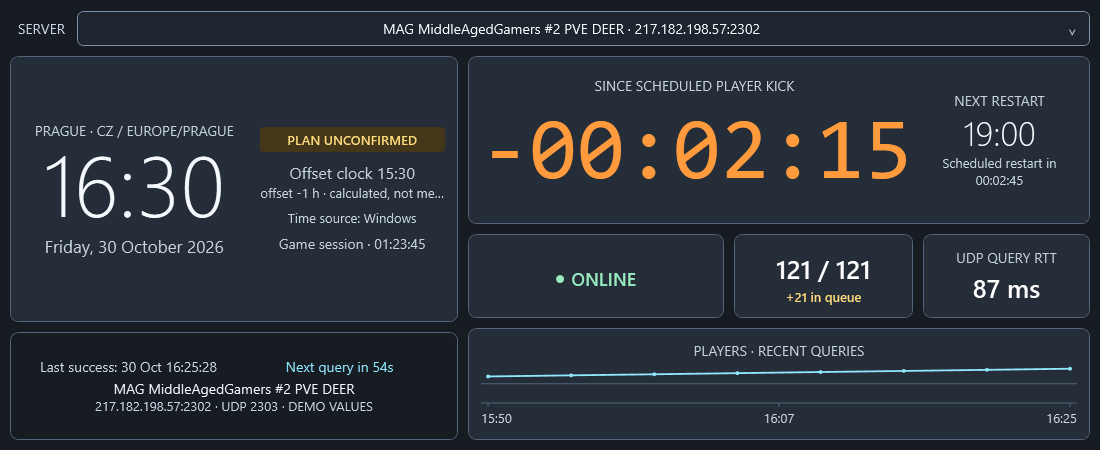
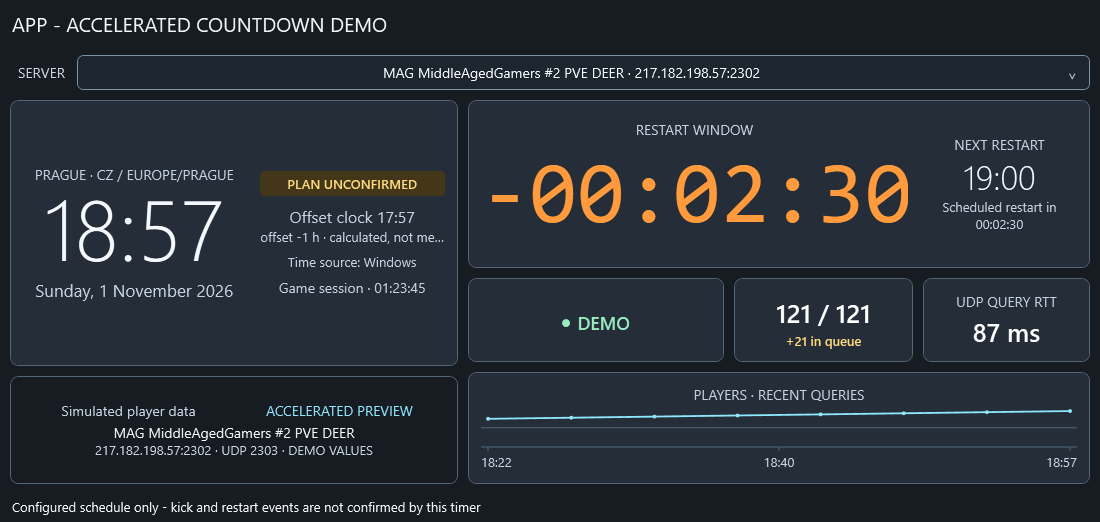
Label the planned kick-to-restart interval as restart window

diff --git a/src/MagDeer.Core/L.cs b/src/MagDeer.Core/L.cs
@@ -40,7 +40,7 @@ public static class L
     public static readonly IReadOnlyDictionary<string, string[]> Texts = new Dictionary<string, string[]>
     {
         ["CountdownKick"] = ["UNTIL EXPECTED PLAYER KICK", "DO OČEKÁVANÉHO KICKU", "DO PRZEWIDYWANEGO WYRZUCENIA", "BIS ZUM ERWARTETEN KICK", "HASTA LA EXPULSIÓN PREVISTA"],
-        ["CountdownSinceKick"] = ["SINCE SCHEDULED PLAYER KICK", "OD PLÁNOVANÉHO KICKU", "OD PLANOWANEGO WYRZUCENIA", "SEIT GEPLANTEM KICK", "DESDE LA EXPULSIÓN PREVISTA"],
+        ["CountdownSinceKick"] = ["RESTART WINDOW", "RESTARTOVACÍ OKNO", "OKNO RESTARTU", "NEUSTARTFENSTER", "VENTANA DE REINICIO"],
         ["ScheduledRestartIn"] = ["Scheduled restart in {0}", "Plánovaný restart za {0}", "Planowany restart za {0}", "Geplanter Neustart in {0}", "Reinicio previsto en {0}"],
         ["KickUnknown"] = ["Player kick time: unknown", "Čas kicku hráčů: neznámý", "Czas wyrzucenia: nieznany", "Kick-Zeit: unbekannt", "Hora de expulsión: desconocida"],
         ["KickKnownOption"] = ["This server kicks players before restarting", "Tento server vykopne hráče před restartem", "Ten serwer wyrzuca graczy przed restartem", "Dieser Server kickt Spieler vor dem Neustart", "Este servidor expulsa jugadores antes del reinicio"],

diff --git a/docs/STREAM-DECK.md b/docs/STREAM-DECK.md
@@ -8,7 +8,7 @@ The plugin uses Elgato's SDK and renders for 72 x 72-pixel MK.2 keys. It needs W
 
 1. Unpack the Windows ZIP. Keep `config.json` and `data` when upgrading.
 2. Start `DayzServerMonitor.exe` and select a server. It can stay minimized.
-3. Install `Dayz-Server-Monitor-1.11.1.streamDeckPlugin`, included in the ZIP and ReleasePackages folder.
+3. Install `Dayz-Server-Monitor-1.11.2.streamDeckPlugin`, included in the ZIP and ReleasePackages folder.
 4. Drag Cycle server information or Pinned server information from the Dayz Server Monitor action list onto a key.
 
 Direct installation needs no Marketplace account or extra driver. Run both apps under the same Windows account, without elevation. The plugin does not launch the monitor. A custom key image/title can cover its generated display.
@@ -44,7 +44,7 @@ Restart digits turn yellow at 15 minutes and orange at 10 minutes. During the la
 
 The key follows the chosen countdown target for its server. Known player kick can be a separate target without changing the real restart plan. The MAG DEER endpoint has a user-reported 5-minute kick lead. Other community servers remain unknown until configured. Logout reminders stay anchored to the real restart time.
 
-After the planned kick time, the kick countdown becomes negative (for example -00:01 through -04:59 for a five-minute lead). It stays orange without pulsing and is labeled SINCE PLAN KICK; the footer shows the remaining scheduled restart countdown. At the scheduled restart, it moves to the next planned kick instead of waiting at NOW for a query reply. These labels describe the configured schedule, not observed kick events.
+After the planned kick time, the kick countdown becomes negative (for example -00:01 through -04:59 for a five-minute lead). It stays orange without pulsing and is labeled RESTART WINDOW; the footer shows Scheduled restart in with the remaining time. At the scheduled restart, it moves to the next planned kick instead of waiting at NOW for a query reply. These labels describe the configured schedule, not observed kick events.
 
 A missing multiplier leaves the published time without extrapolation. A missing game clock gives N/A. The desktop offset clock is calculated separately. [Bohemia server configuration](https://community.bohemia.net/wiki/DayZ:Server_Configuration).
 

diff --git a/README.md b/README.md
@@ -34,7 +34,7 @@ Set your restart plan in Settings -> Restarts & alerts. The example is 03:00, 07
 
 Player kick is separate from restart. MAG DEER has a user-reported 5-minute kick lead; other servers stay unknown until configured. You can count down to a known kick without moving the actual restart plan. Digits turn yellow at 15 minutes, orange at 10 minutes and gradually red over the last 5 minutes. Only the digits gently pulse in the last 30 seconds.
 
-When counting down to a known kick, passing the planned kick time shows negative elapsed time in steady orange until the scheduled restart. The desktop labels it SINCE SCHEDULED PLAYER KICK and shows the remaining time to restart; the Stream Deck key shows SINCE PLAN KICK with a RESTART timer below. At the scheduled restart, both start counting down to the next planned kick, including when queries are unavailable. This is schedule-based, not confirmation of an actual kick or restart. Visual alerts can be disabled in settings.
+When counting down to a known kick, passing the planned kick time shows negative elapsed time in steady orange until the scheduled restart. The desktop labels it RESTART WINDOW and shows the remaining time to restart; the Stream Deck key shows RESTART WINDOW with a Scheduled restart in timer below. At the scheduled restart, both start counting down to the next planned kick, including when queries are unavailable. This is schedule-based, not confirmation of an actual kick or restart. Visual alerts can be disabled in settings.
 
 Settings -> Appearance contains ten themes, backgrounds and the language selector. Theme/background selection previews immediately; Cancel restores the previous appearance. English is the default; Czech, Polish, German and Spanish are included. Profiles can be edited or deleted under Servers. One Save settings applies the dialog's changes. See the [settings guide](docs/SETTINGS.md) and [palette gallery](docs/GALLERY.md).
 

diff --git a/README.cs.md b/README.cs.md
@@ -36,7 +36,7 @@ Plán restartů je v sekci Restarty a upozornění. Výchozí příklad je 03:00
 
 Kick je oddělený od restartu a nastavený pro konkrétní server. U MAG DEER počítáme s uživatelem hlášeným kickem 5 minut před restartem. U ostatních serverů je čas neznámý, dokud ho nenastavíš. Odpočet lze přepnout na známý kick bez posunutí restartu. V 15 minutách číslice zežloutnou, v 10 minutách jsou oranžové a posledních 5 minut přecházejí do červené. Posledních 30 sekund jemně pulzují jen číslice.
 
-Po plánovaném kicku se při odpočtu do kicku zobrazí záporný čas oranžově bez blikání. Popisek upřesní, že jde o dobu od plánovaného kicku, a pod ním zůstane čas do plánovaného restartu. V okamžiku restartu se aplikace i Stream Deck přepnou na odpočet k dalšímu kicku, i když server neodpovídá. Jde o časy podle nastaveného rozvrhu, nikoli o potvrzení skutečného kicku nebo restartu. Barevná upozornění lze vypnout v nastavení.
+Po plánovaném kicku se při odpočtu do kicku zobrazí záporný čas oranžově bez blikání. Popisek „RESTARTOVACÍ OKNO“ označí dobu mezi plánovaným kickem a restartem. Pod ním zůstane čas do plánovaného restartu. V okamžiku restartu se aplikace i Stream Deck přepnou na odpočet k dalšímu kicku, i když server neodpovídá. Jde o časy podle nastaveného rozvrhu, nikoli o potvrzení skutečného kicku nebo restartu. Barevná upozornění lze vypnout v nastavení.
 
 Motivy a pozadí se při výběru hned zobrazí jako náhled; Zrušit vrátí původní vzhled. Dvojklik mimo ovládací prvky skryje horní lištu. Widget přesuneš tažením za zobrazovací plochu; F10 nebo Esc lištu vrátí. Pravé tlačítko otevře nabídku.
 

diff --git a/docs/GALLERY.md b/docs/GALLERY.md
@@ -100,7 +100,7 @@ Normal, 15 minutes, 10 minutes, 5 minutes, 2:45 and 30 seconds. The last 30 seco
 
 ![Countdown color stages](images/countdown-stages.png)
 
-After a scheduled player kick, the negative timer stays orange without pulsing until the scheduled restart. The smaller timer shows how long remains until restart. At restart, the countdown moves to the next planned kick. This render uses demo data, not a confirmed kick event.
+After a scheduled player kick, the negative timer stays orange without pulsing until the scheduled restart. RESTART WINDOW labels this schedule-based interval; Scheduled restart in shows how long remains until restart. At restart, the countdown moves to the next planned kick. This render uses demo data, not a confirmed kick event.
 
 ![Real WPF dashboard rendering of the negative kick countdown](images/countdown-after-kick.png)
 
